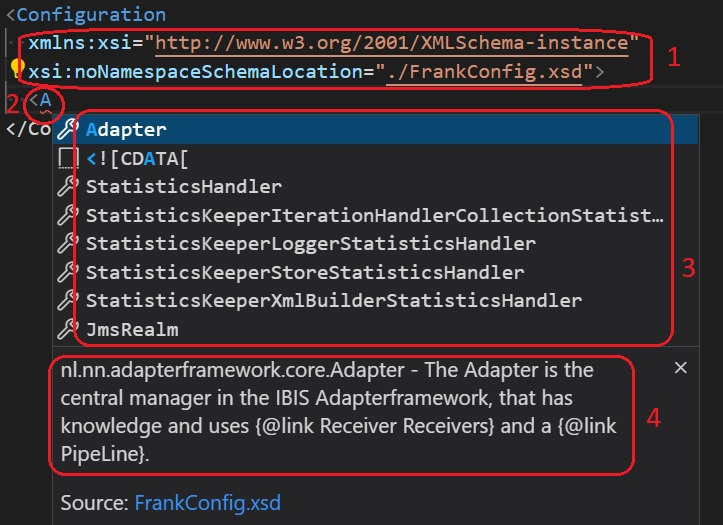
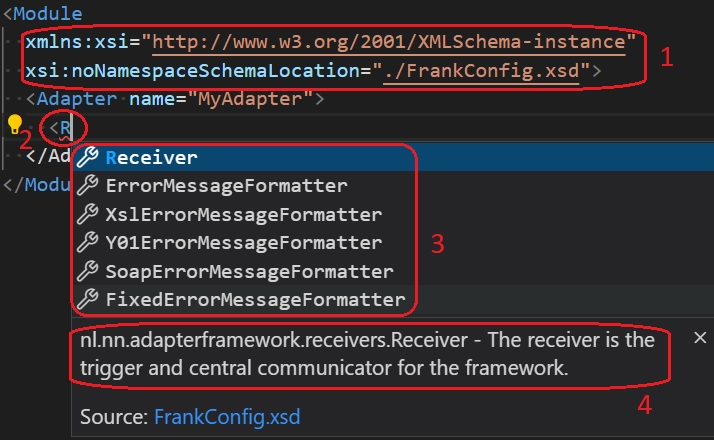
Start using more relevant frank-framework elements

diff --git a/FRANKDOC.md b/FRANKDOC.md
@@ -14,13 +14,13 @@ A Frank developer uses the XML schema when he writes a Frank config. He may star
 
 ![vscodeStartConfig](./picturesForContributors/vscodeStartConfig.jpg)
 
-He types the text needed to reference the XML schema of the Frank!Doc (number 1). Then he writes the text `<A` (number 2). VSCode shows a red flag because this is invalid XML. VSCode can provide autocomplete help as shown (number 3). One of the options is the XML element `<Adapter>`. There is a button to get the tooltip help text of that element (number 4). This text is derived from the JavaDoc comment above the class declaration of [Adapter](./core/src/main/java/nl/nn/adapterframework/core/Adapter.java).
+He types the text needed to reference the XML schema of the Frank!Doc (number 1). Inside an `<Adapter>`, he writes the text `<R` (number 2). VSCode shows a red flag because this is invalid XML. VSCode can provide autocomplete help as shown (number 3). One of the options is the XML element `<Receiver>`. There is a button to get the tooltip help text of that element (number 4). This text is derived from the JavaDoc comment above the class declaration of [Receiver](./core/src/main/java/nl/nn/adapterframework/receivers/Receiver.java).
 
 Frank developers not only see errors about invalid XML, but also about violations of the XML schema.
 
 ![vscodeXsdViolation](./picturesForContributors/vscodeXsdViolation.jpg)
 
-The Frank developer has used an XML element `<xxx>` that does not exist. VSCode produces a red flag. The tooltip help he can get is also shown. He sees which XML elements he can use instead of `<xxx>`.
+The Frank developer has used an XML element `<xxx>` that does not exist. VSCode produces a red flag. The tooltip help he can get is also shown. He sees which XML elements he can use instead of `<xxx>`. You may be surprised that this figure shows option `<Pipeline>` while the previous figure did not. The reason is that in the previous picture one letter, `R`, was provided already.
 
 #### Web app with reference information for Frank developers
 
